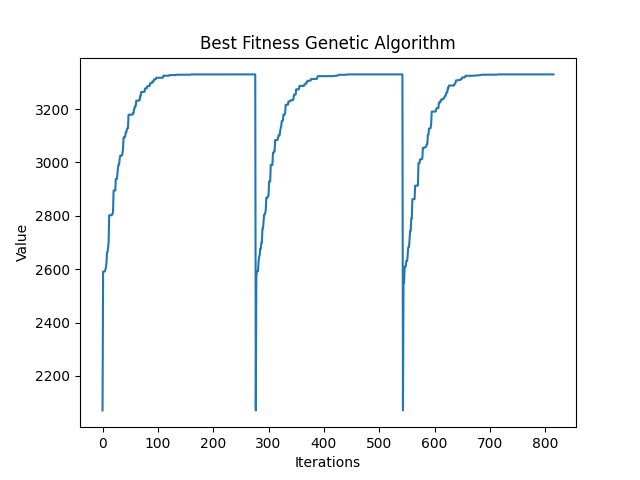
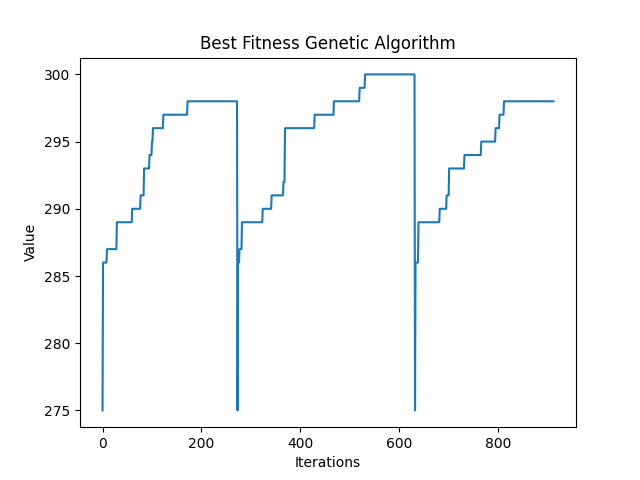
starting point for values for paper

diff --git a/randomized_optimization/Knapsack.py b/randomized_optimization/Knapsack.py
@@ -5,7 +5,7 @@ import numpy as np
 import time
 
 def simulated_annealing_runner(problem):
-    sa = mlrose_hiive.SARunner(problem, experiment_name="SA_QUEENS", iteration_list=[1000],
+    sa = mlrose_hiive.SARunner(problem, experiment_name="SA_knapsack", iteration_list=[1000],
                                 temperature_list=[1,100,300,500,1000,2000,5000,8000],
                                 decay_list=[mlrose_hiive.ExpDecay,
                                         mlrose_hiive.GeomDecay],
@@ -39,11 +39,11 @@ def simulated_annealing_runner(problem):
     ax = best_curve.Fitness.plot(title='Best Fitness Simulated Annealing')
     ax.set_xlabel("Iterations")
     ax.set_ylabel("Value")
-    plt.savefig("randomized_optimization/SA_queens")
+    plt.savefig("randomized_optimization/SA_knapsack")
     plt.clf()
 
 def hill_climbing_runner(problem):
-    rhc = mlrose_hiive.RHCRunner(problem, experiment_name="RHC_QUEENS", 
+    rhc = mlrose_hiive.RHCRunner(problem, experiment_name="RHC_knapsack", 
                                         iteration_list=[1000],
                                         seed=64, max_attempts=100,
                                         restart_list=[50,100])
@@ -75,7 +75,7 @@ def hill_climbing_runner(problem):
     ax = best_curve.Fitness.plot(title='Best Fitness Random Hill Climbing')
     ax.set_xlabel("Iterations")
     ax.set_ylabel("Value")
-    plt.savefig("randomized_optimization/RHC_queens")
+    plt.savefig("randomized_optimization/RHC_knapsack")
     plt.clf()
 
 def genetic_algorithms(problem):
@@ -115,7 +115,7 @@ def genetic_algorithms(problem):
     ax = best_curve.Fitness.plot(title='Best Fitness Genetic Algorithm')
     ax.set_xlabel("Iterations")
     ax.set_ylabel("Value")
-    plt.savefig("randomized_optimization/GA_queens")
+    plt.savefig("randomized_optimization/GA_knapsack")
     plt.clf()
 
 def mimic_runner(problem):
@@ -157,7 +157,7 @@ def mimic_runner(problem):
     ax = best_curve.Fitness.plot(title='Best Fitness Mimic')
     ax.set_xlabel("Iterations")
     ax.set_ylabel("Value")
-    plt.savefig("randomized_optimization/MM_queens")
+    plt.savefig("randomized_optimization/MM_knapsack")
     plt.clf()
 
 knapsack_len = 200

diff --git a/randomized_optimization/N-Queens.py b/randomized_optimization/N-Queens.py
@@ -180,7 +180,7 @@ def queens_max(state):
 
 fitness = mlrose_hiive.CustomFitness(queens_max)
 
-problem = mlrose_hiive.DiscreteOpt(length=32, fitness_fn=fitness, maximize=True, max_val=32)
+problem = mlrose_hiive.DiscreteOpt(length=25, fitness_fn=fitness, maximize=True, max_val=25)
 
 simulated_annealing_runner(problem)
 

diff --git a/randomized_optimization/notes.md b/randomized_optimization/notes.md
@@ -14,60 +14,60 @@ learning curves for NN
 N-Queens results
 *************SA BEGIN*************
 ***********BEST FITNESS**********
-Fitness Avg: 479.375
-Fitness Max: 493.0
+Fitness Avg: 287.1875
+Fitness Max: 299.0
 *************Function Evals*************
-1: 1157.0
-100: 1665.0
-300: 1754.5
-500: 1786.5
-1000: 1834.5
-2000: 1875.0
-5000: 1907.0
-8000: 1935.0
-FEval Avg: 1739.3125
+1: 735.0
+100: 1641.5
+300: 1758.0
+500: 1787.5
+1000: 1824.0
+2000: 1863.0
+5000: 1910.0
+8000: 1929.0
+FEval Avg: 1681.0
 **********TIME FOR BEST CURVE*************
-Temperature 1 Time 0.8109171519972733
+Temperature 1 Time 0.6019499829999404
 **********WALL CLOCK TIME*************
-Walk Clock Time: 16.704111337661743
+Walk Clock Time: 15.35910701751709
 *************RHC BEGIN*************
 ***********BEST FITNESS**********
-Fitness Avg: 488.79605263157896
-Fitness Max: 493.0
+Fitness Avg: 294.8092105263158
+Fitness Max: 298.0
 *************Function Evals*************
-50: 10282.725490196079
-100: 19684.326732673268
+50: 8518.098039215687
+100: 16429.752475247526
 **********TIME FOR BEST CURVE*************
-Restart 31.0 Time 0.37952498699814896
+Restart 59.0 Time 0.21954724300030648
 **********WALL CLOCK TIME*************
-Walk Clock Time: 608.0300576686859
+Walk Clock Time: 431.2323679924011
 *************GA BEGIN*************
 ***********BEST FITNESS**********
-Fitness Avg: 492.0
-Fitness Max: 495.0
+Fitness Avg: 297.0833333333333
+Fitness Max: 300.0
 *************Function Evals*************
-25: 5210.666666666667
-100: 26005.333333333332
-300: 91417.33333333333
-600: 216376.33333333334
-FEval Avg: 84752.41666666667
+25: 5468.333333333333
+100: 19467.666666666668
+300: 91614.0
+600: 211762.33333333334
+FEval Avg: 82078.08333333333
 **********TIME FOR BEST CURVE*************
-Population 600.0 Time 2.596806845998799
+Population 300.0 Time 1.429353409000214
 **********WALL CLOCK TIME*************
-Walk Clock Time: 505.8370337486267
+Walk Clock Time: 413.60214257240295
 *************MIMIC BEGIN*************
 ***********BEST FITNESS**********
-Fitness Avg: 479.8333333333333
-Fitness Max: 487.0
+Fitness Avg: 288.0
+Fitness Max: 295.0
 *************Function Evals*************
 50: nan
 200: nan
 500: nan
-FEval Avg: 31332.583333333332
+FEval Avg: 30635.75
 **********TIME FOR BEST CURVE*************
-Population 600 Time 2.895786698001757
+Population 600 Time 2.36250110400033
 **********WALL CLOCK TIME*************
-Walk Clock Time: 501.7787606716156
+Walk Clock Time: 334.38356852531433
 
 
 FLIP FLOP
@@ -129,44 +129,57 @@ Walk Clock Time: 468.6214265823364
 KNAPSACK
 *************SA BEGIN*************
 ***********BEST FITNESS**********
-Fitness Avg: 2673.975280884466
-Fitness Max: 2825.021339322957
+Fitness Avg: 2683.8705411396577
+Fitness Max: 2950.070930721813
 *************Function Evals*************
-1: 136.0
-100: 742.0
-300: 1031.0
+1: 116.0
+100: 760.5
+300: 998.0
 500.1: nan
 2000: 1411.5
-5000: 1573.0
-8000: 1610.0
-FEval Avg: 1123.3125
+5000: 1518.5
+8000: 1604.5
+FEval Avg: 1104.8125
 **********TIME FOR BEST CURVE*************
-Temperature 300 Time 0.19167704000028607
+Temperature 1000 Time 0.00404966600001444
 **********WALL CLOCK TIME*************
-Walk Clock Time: 4.0285115242004395
+Walk Clock Time: 3.1887078285217285
+*************RHC BEGIN*************
+***********BEST FITNESS**********
+Fitness Avg: 1509.8983552503323
+Fitness Max: 2725.2739390930515
+*************Function Evals*************
+50: 3056.0392156862745
+100: 5994.623762376237
+**********TIME FOR BEST CURVE*************
+Restart 34.0 Time 0.014806860000021516
+**********WALL CLOCK TIME*************
+Walk Clock Time: 53.067524909973145
 *************GA BEGIN*************
 ***********BEST FITNESS**********
-Fitness Avg: 3397.615207081964
-Fitness Max: 3451.7019711632747
+Fitness Avg: 3513.4732995542677
+Fitness Max: 3579.179005279761
 *************Function Evals*************
-50: 13078.0
-200: 62294.333333333336
-500: 156529.33333333334
-FEval Avg: 77300.55555555556
+50: 16223.666666666666
+200: 54920.333333333336
+500: 133148.33333333334
+FEval Avg: 68097.44444444444
 **********TIME FOR BEST CURVE*************
-Population 500.0 Time 0.48402675800025463
+Population 500.0 Time 0.18817824500001734
 **********WALL CLOCK TIME*************
-Walk Clock Time: 50.59297561645508
+Walk Clock Time: 45.82818150520325
 *************MIMIC BEGIN*************
 ***********BEST FITNESS**********
-Fitness Avg: 3061.171560491949
-Fitness Max: 3427.8075440993193
+Fitness Avg: 3241.6809856545924
+Fitness Max: 3578.364454098795
 *************Function Evals*************
-50: 6128.0
-200: 28894.0
-500: 71171.66666666667
-FEval Avg: 35397.88888888889
+50: 5792.75
+200: 29464.25
+500: 74302.0
+1000: 158686.75
+2000: 312684.0
+FEval Avg: 116185.95
 **********TIME FOR BEST CURVE*************
-Population 500 Time 5.474845839999944
+Population 2000 Time 2.3316290989998834
 **********WALL CLOCK TIME*************
-Walk Clock Time: 165.1533064842224
+Walk Clock Time: 1292.1927061080933
